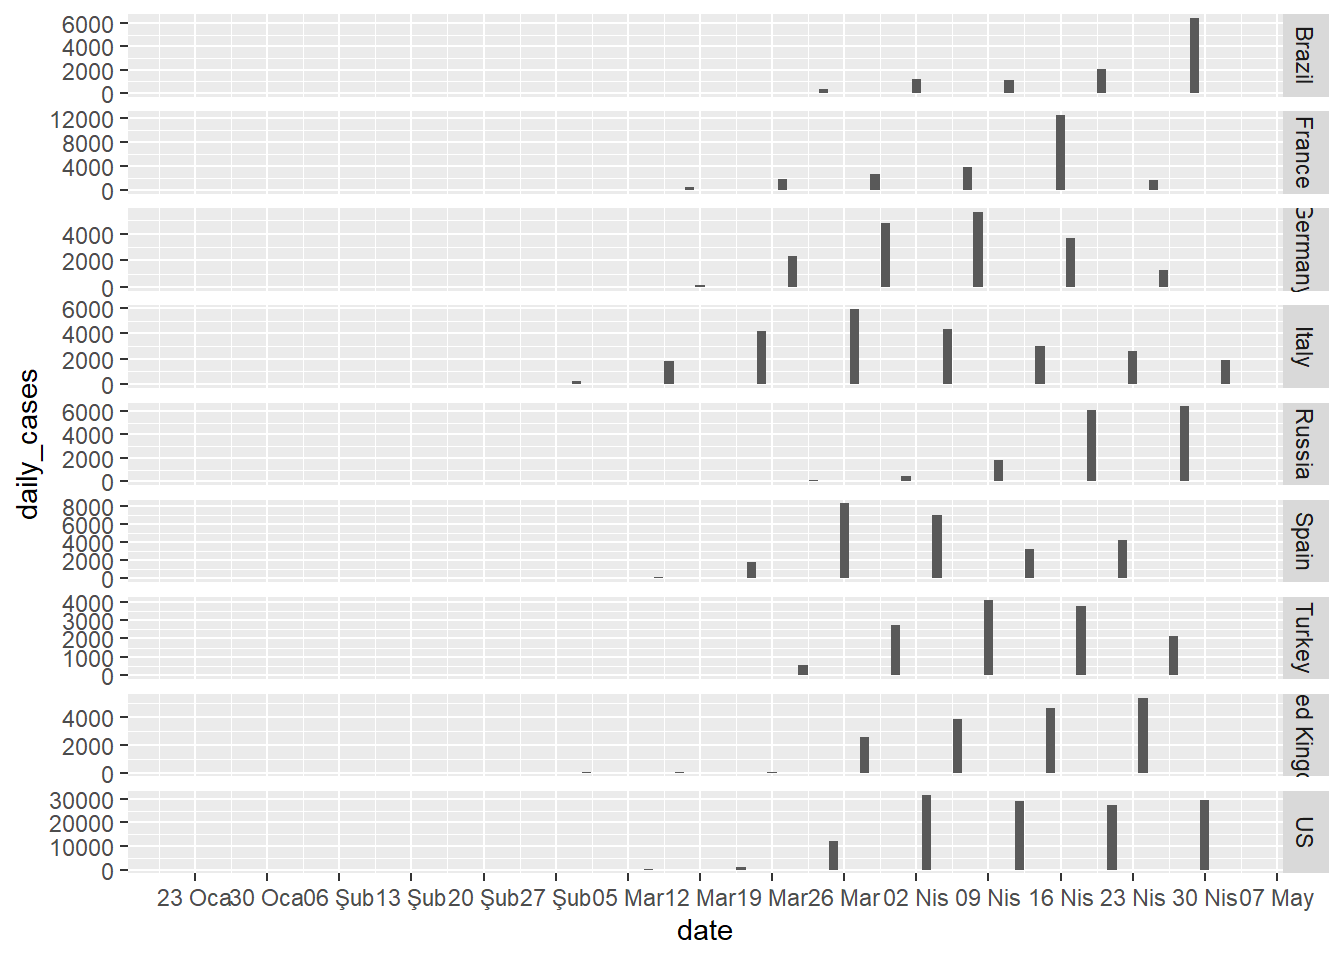
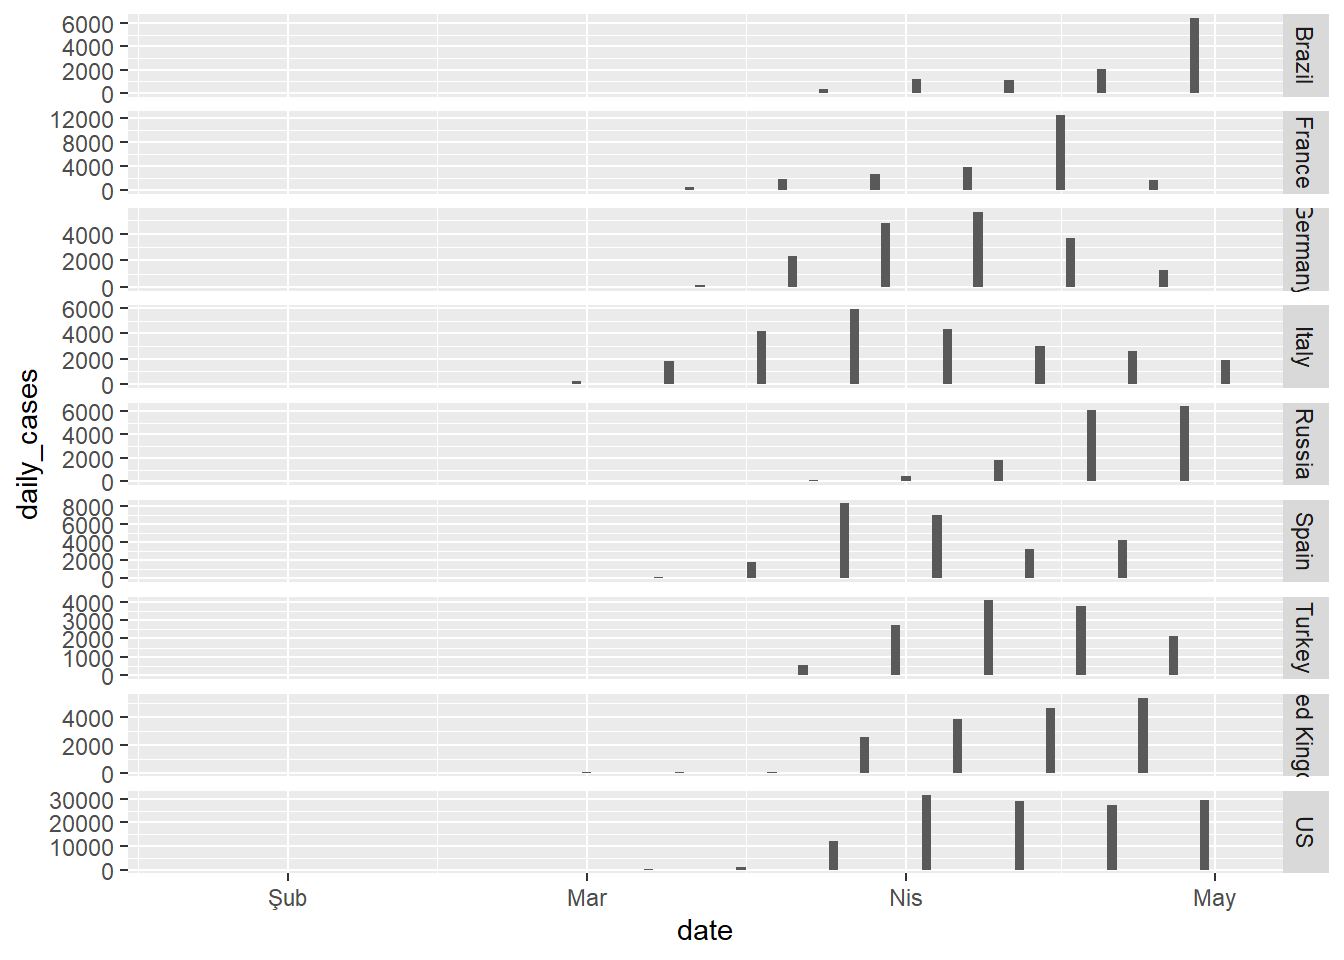
fp

Changed region(s): [[0.125, 0.9062, 0.9688, 0.9688]]

diff --git a/2020/05/covid19-ggplot2/index.html b/2020/05/covid19-ggplot2/index.html
@@ -471,7 +471,6 @@ top_nine_countries</code></pre>
 <p>Another way to show the same trend:</p>
 <pre class="r"><code>ggplot(data = filter(time_series_tidy_confirmed_with_daily, country == as_vector(top_nine_countries)), mapping = aes(x = date, y = daily_cases)) +
   geom_bar(stat = &quot;identity&quot;) +
-  scale_x_date(date_breaks=&quot;7 days&quot;, date_labels = &quot;%d %b&quot;) +
   facet_grid(country~., scales = &quot;free_y&quot;)</code></pre>
 <p><img src="https://auditanddata.com/post/2020-05-02-covid19-ggplot2_files/figure-html/unnamed-chunk-13-1.png" width="672" /></p>
 </div>
